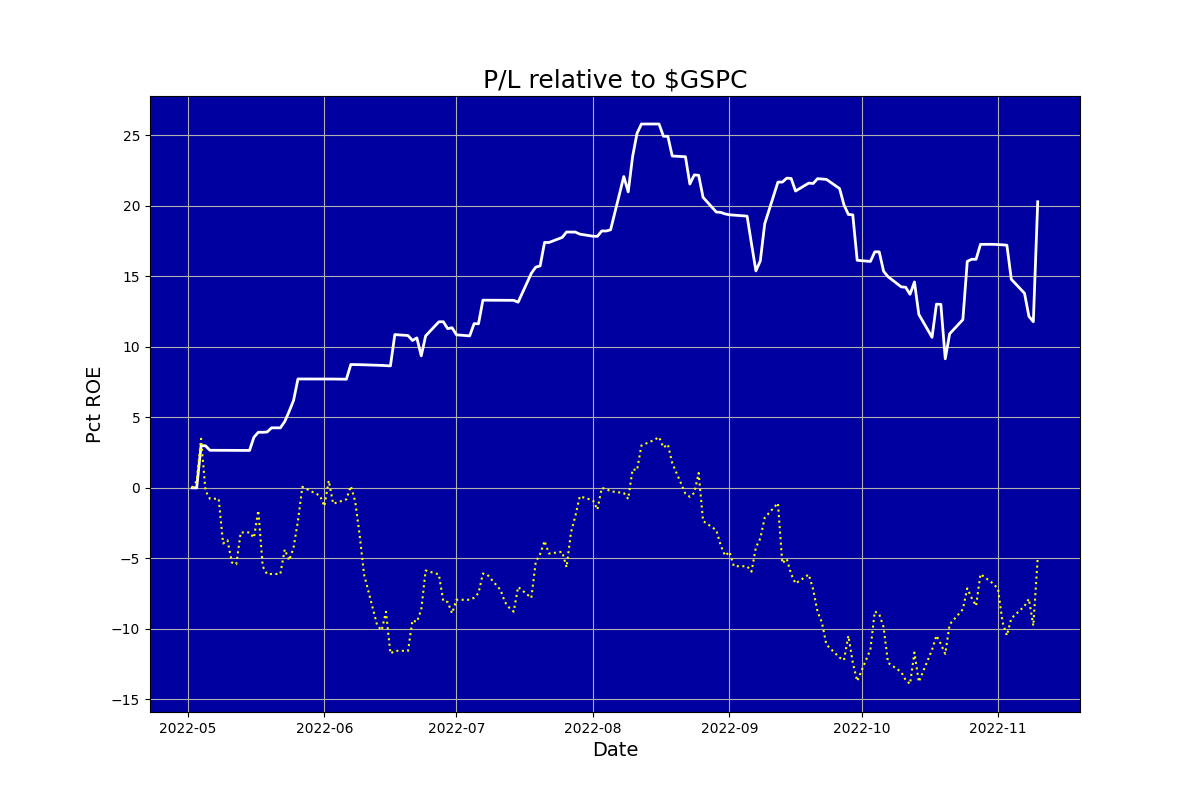
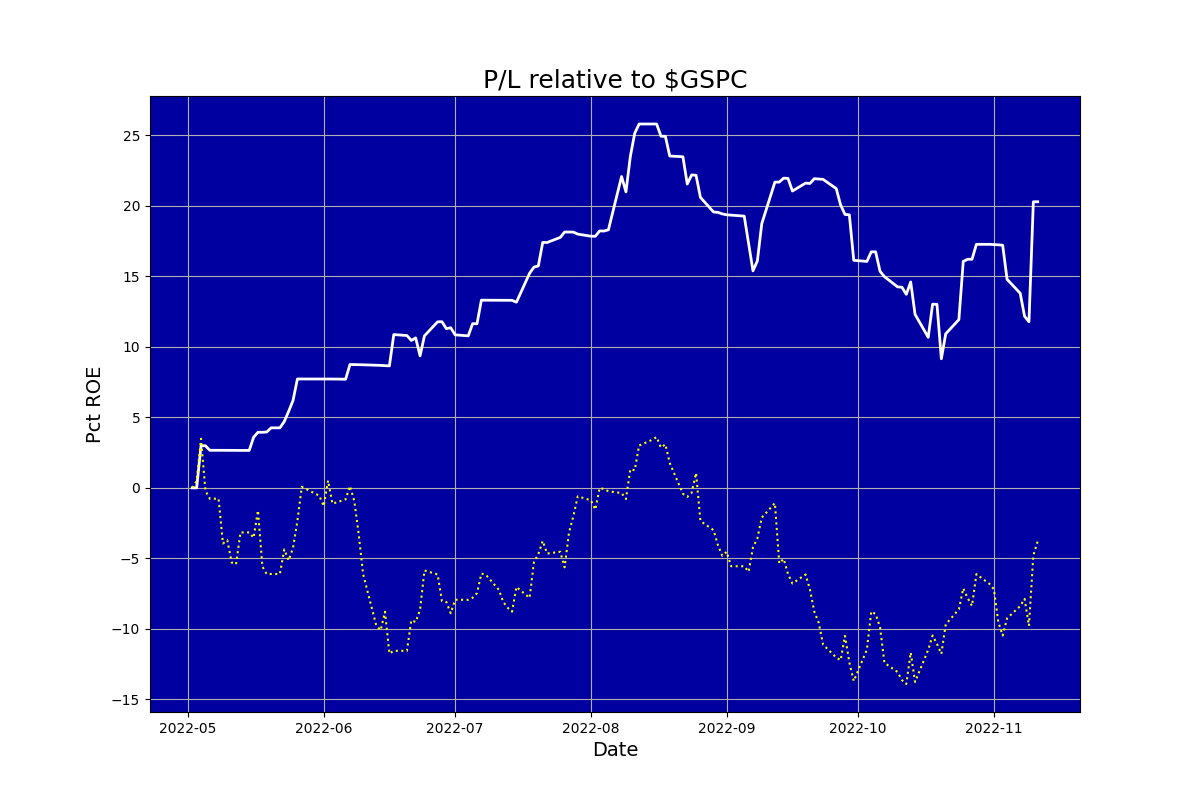
Updated

diff --git a/ig_report.html b/ig_report.html
@@ -1,1 +1,1 @@
-<html><body><center><h1>Auriel (never knowingly overbought)</h1></center><table cols=2><tr><td><img src=ig_pl.png></td><td><table cols=2><tr><td colspan=2><b><br>Snapshot</b></td></tr><tr><td>Last updated:&nbsp;&nbsp;&nbsp;</td><td>2022-11-10 15:56</td></tr><tr><td>Funds:&nbsp;&nbsp;&nbsp;</td><td>13897.89</td></tr><tr><td>Margin:&nbsp;&nbsp;&nbsp;</td><td>0.00</td></tr><tr><td>Cushion:&nbsp;&nbsp;&nbsp;</td><td>-2935.44</td></tr><tr><td>Last closed trade:&nbsp;&nbsp;&nbsp;</td><td>2022-11-10</td></tr><tr><td colspan=2><b><br>Positions</b></td></tr><tr><td>Mean days to new high:&nbsp;&nbsp;&nbsp;</td><td>12.72</td></tr><tr><td colspan=2><b><br>Trades</b></td></tr><tr><td>Traded days:&nbsp;&nbsp;&nbsp;</td><td>141</td></tr><tr><td>Pct profitable days:&nbsp;&nbsp;&nbsp;</td><td>33.33</td></tr><tr><td>Pct days beat S&P:&nbsp;&nbsp;&nbsp;</td><td>57.04</td></tr><tr><td>Pct profitable months:&nbsp;&nbsp;&nbsp;</td><td>85.71</td></tr><tr><td colspan=2><b><br>Performance</b></td></tr><tr><td>Pct median monthly ROE:&nbsp;&nbsp;&nbsp;</td><td>3.02</td></tr><tr><td>Pct annualised ROE:&nbsp;&nbsp;&nbsp;</td><td>35.99</td></tr><tr><td colspan=2><b><br>Risk</b></td></tr><tr><td>Volatility pct:&nbsp;&nbsp;&nbsp;</td><td>20.85</td></tr><tr><td>Benchmark volatility pct:&nbsp;&nbsp;&nbsp;</td><td>26.34</td></tr><tr><td>Sharpe ratio (RFR 2.5%):&nbsp;&nbsp;&nbsp;</td><td>1.66</td></tr><tr><td>Calmar ratio:&nbsp;&nbsp;&nbsp;</td><td>2.24</td></tr><tr><td>Worst drawdown pct:&nbsp;&nbsp;&nbsp;</td><td>-0.16</td></tr><tr><td>Recovery days from worst drawdown:&nbsp;&nbsp;&nbsp;</td><td>9999.00</td></tr><tr><td>Beat benchmark +ve periods pct:&nbsp;&nbsp;&nbsp;</td><td>0.76</td></tr><tr><td>Beat benchmark -ve periods pct:&nbsp;&nbsp;&nbsp;</td><td>0.90</td></tr><tr><td>Correlation with benchmark:&nbsp;&nbsp;&nbsp;</td><td>0.39</td></tr></table></td></tr></table></body></html>
+<html><body><center><h1>Auriel (never knowingly overbought)</h1></center><table cols=2><tr><td><img src=ig_pl.png></td><td><table cols=2><tr><td colspan=2><b><br>Snapshot</b></td></tr><tr><td>Last updated:&nbsp;&nbsp;&nbsp;</td><td>2022-11-11 15:56</td></tr><tr><td>Funds:&nbsp;&nbsp;&nbsp;</td><td>13897.89</td></tr><tr><td>Margin:&nbsp;&nbsp;&nbsp;</td><td>0.00</td></tr><tr><td>Cushion:&nbsp;&nbsp;&nbsp;</td><td>-2935.44</td></tr><tr><td>Last closed trade:&nbsp;&nbsp;&nbsp;</td><td>2022-11-10</td></tr><tr><td colspan=2><b><br>Positions</b></td></tr><tr><td>Mean days to new high:&nbsp;&nbsp;&nbsp;</td><td>12.74</td></tr><tr><td colspan=2><b><br>Trades</b></td></tr><tr><td>Traded days:&nbsp;&nbsp;&nbsp;</td><td>142</td></tr><tr><td>Pct profitable days:&nbsp;&nbsp;&nbsp;</td><td>33.10</td></tr><tr><td>Pct days beat S&P:&nbsp;&nbsp;&nbsp;</td><td>57.35</td></tr><tr><td>Pct profitable months:&nbsp;&nbsp;&nbsp;</td><td>85.71</td></tr><tr><td colspan=2><b><br>Performance</b></td></tr><tr><td>Pct median monthly ROE:&nbsp;&nbsp;&nbsp;</td><td>3.02</td></tr><tr><td>Pct annualised ROE:&nbsp;&nbsp;&nbsp;</td><td>35.73</td></tr><tr><td colspan=2><b><br>Risk</b></td></tr><tr><td>Volatility pct:&nbsp;&nbsp;&nbsp;</td><td>20.78</td></tr><tr><td>Benchmark volatility pct:&nbsp;&nbsp;&nbsp;</td><td>26.33</td></tr><tr><td>Sharpe ratio (RFR 2.5%):&nbsp;&nbsp;&nbsp;</td><td>1.65</td></tr><tr><td>Calmar ratio:&nbsp;&nbsp;&nbsp;</td><td>2.23</td></tr><tr><td>Worst drawdown pct:&nbsp;&nbsp;&nbsp;</td><td>-0.16</td></tr><tr><td>Recovery days from worst drawdown:&nbsp;&nbsp;&nbsp;</td><td>9999.00</td></tr><tr><td>Beat benchmark +ve periods pct:&nbsp;&nbsp;&nbsp;</td><td>0.76</td></tr><tr><td>Beat benchmark -ve periods pct:&nbsp;&nbsp;&nbsp;</td><td>0.90</td></tr><tr><td>Correlation with benchmark:&nbsp;&nbsp;&nbsp;</td><td>0.40</td></tr></table></td></tr></table></body></html>
